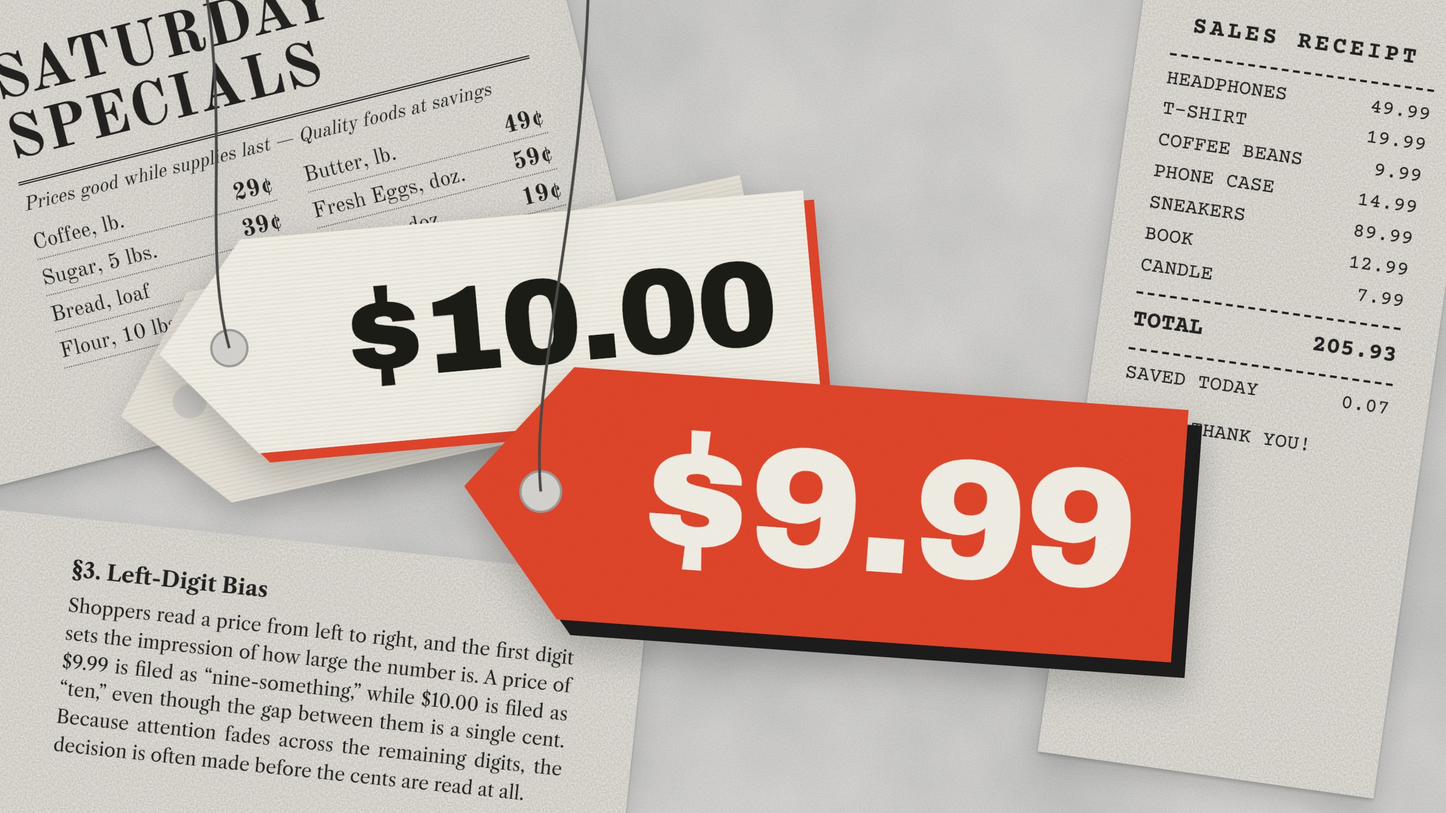
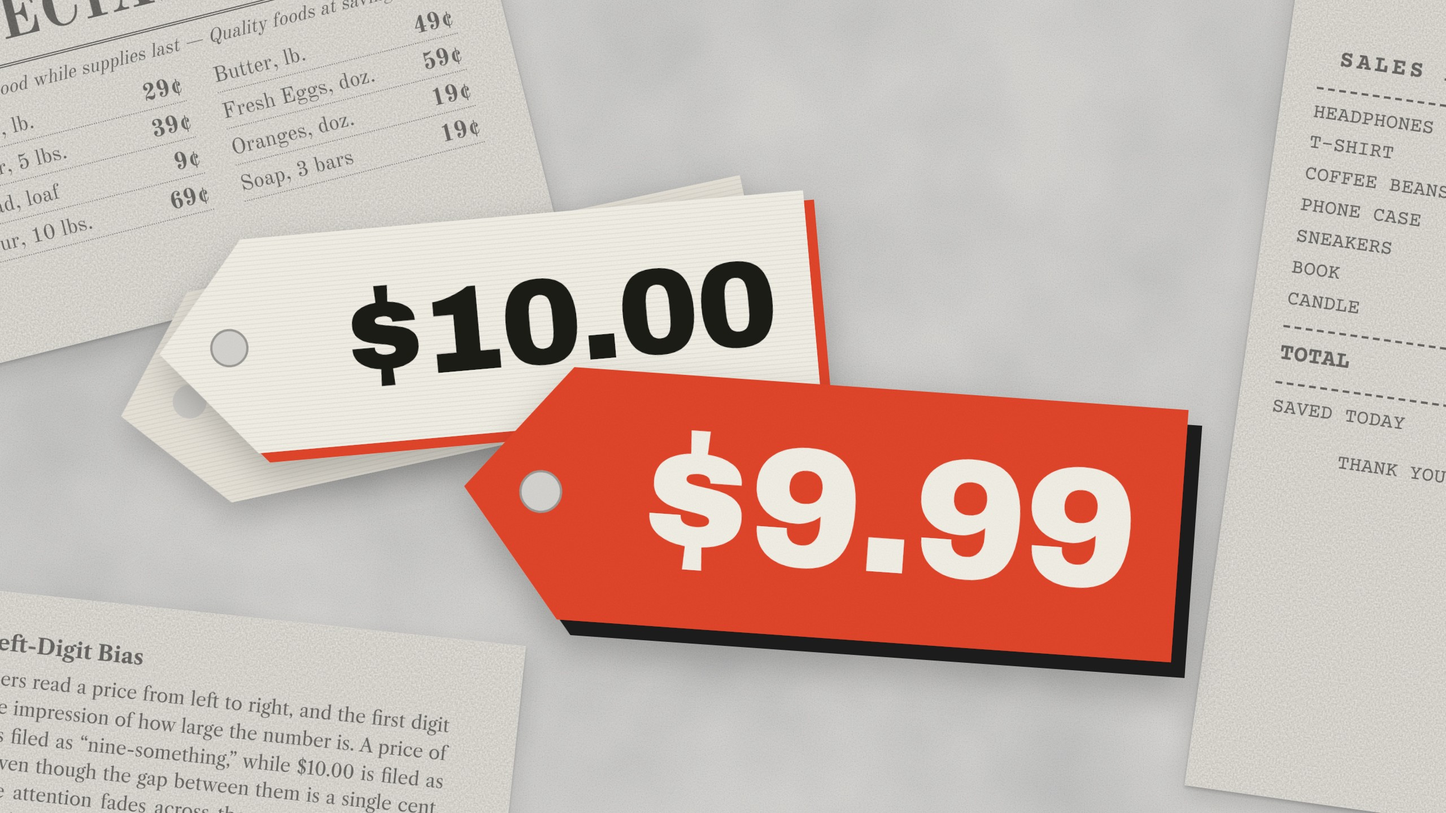
Declutter thumbnail: drop tag strings, push paper scraps off-frame
Claude-Session: https://claude.ai/code/session_01RcikAb95Ss17PVrDqYxJRm

diff --git a/thumbnails/1-cent-trick/thumb.html b/thumbnails/1-cent-trick/thumb.html
@@ -17,19 +17,19 @@ html,body{width:1280px;height:720px;overflow:hidden;background:var(--bg)}
 .doc{position:absolute;background:var(--paper);color:var(--ink);overflow:hidden;
   box-shadow:0 2px 3px rgba(0,0,0,.18),0 10px 24px rgba(0,0,0,.14)}
 .doc .grain{position:absolute;inset:0;mix-blend-mode:multiply;opacity:.55;pointer-events:none}
-.doc .in{filter:blur(.35px)}
-#ad{left:-90px;top:-62px;width:620px;height:430px;transform:rotate(-14deg);padding:58px 44px 0 110px}
+.doc .in{filter:blur(.35px);opacity:.62}
+#ad{left:-170px;top:-150px;width:620px;height:430px;transform:rotate(-14deg);padding:58px 44px 0 110px}
 #ad h1{font:700 54px/1 "Old Standard";letter-spacing:1px;text-transform:uppercase;border-bottom:3px double var(--ink);padding-bottom:8px}
 #ad .sub{font:italic 400 17px "Old Standard";margin:8px 0 12px}
 #ad .cols{display:grid;grid-template-columns:1fr 1fr;gap:6px 28px;font:400 19px/1.35 "Old Standard"}
 #ad .cols div{display:flex;justify-content:space-between;border-bottom:1px dotted #777}
 #ad .cols b{font:700 21px "Old Standard"}
-#rc{right:10px;top:-70px;width:300px;height:760px;transform:rotate(8deg);padding:90px 34px 0 30px;font:400 18px/1.55 "Courier Prime"}
+#rc{right:-120px;top:-40px;width:300px;height:760px;transform:rotate(8deg);padding:90px 34px 0 30px;font:400 18px/1.55 "Courier Prime"}
 #rc .h{font-weight:700;text-align:center;font-size:21px;letter-spacing:3px}
 #rc .r{display:flex;justify-content:space-between}
 #rc hr{border:0;border-top:2px dashed var(--ink);margin:8px 0}
 #rc .t{font-weight:700;font-size:21px}
-#pp{left:-40px;top:480px;width:600px;height:330px;transform:rotate(6deg);padding:34px 60px 0 90px;font:400 16.5px/1.5 "Caslon";text-align:justify;hyphens:auto}
+#pp{left:-150px;top:540px;width:600px;height:330px;transform:rotate(6deg);padding:34px 60px 0 90px;font:400 16.5px/1.5 "Caslon";text-align:justify;hyphens:auto}
 #pp h2{font:700 19px "Caslon";margin-bottom:8px}
 #pp .n{position:absolute;right:70px;top:36px;font:400 14px "Caslon"}
 </style></head>
@@ -128,7 +128,6 @@ html,body{width:1280px;height:720px;overflow:hidden;background:var(--bg)}
   <path d="M-250 -95 H250 V95 H-250 L-330 0 Z" fill="var(--cream)"/>
   <path d="M-250 -95 H250 V95 H-250 L-330 0 Z" fill="url(#lines)"/>
   <circle cx="-268" cy="0" r="16" fill="#d4d3cf" stroke="#9c9a95" stroke-width="2"/>
-  <path d="M-268 0 C -285 -90, -250 -190, -262 -330" fill="none" stroke="#4a4846" stroke-width="2.5"/>
   <text x="25" y="38" text-anchor="middle" font-family="Archivo Black" font-size="108" fill="#1b1a19" letter-spacing="-2">$10.00</text>
  </g>
  
@@ -138,7 +137,6 @@ html,body{width:1280px;height:720px;overflow:hidden;background:var(--bg)}
   <path d="M-260 -112 H285 V112 H-260 L-350 0 Z" fill="var(--shadow)" transform="translate(13 13)"/>
   <path d="M-260 -112 H285 V112 H-260 L-350 0 Z" fill="var(--red)"/>
   <circle cx="-282" cy="0" r="18" fill="#d4d3cf" stroke="#9c9a95" stroke-width="2"/>
-  <path d="M-282 0 C -300 -110, -255 -260, -275 -520" fill="none" stroke="#4a4846" stroke-width="2.5"/>
   <text x="25" y="50" text-anchor="middle" font-family="Archivo Black" font-size="150" fill="var(--cream)" letter-spacing="-2">$9.99</text>
  </g>
  
